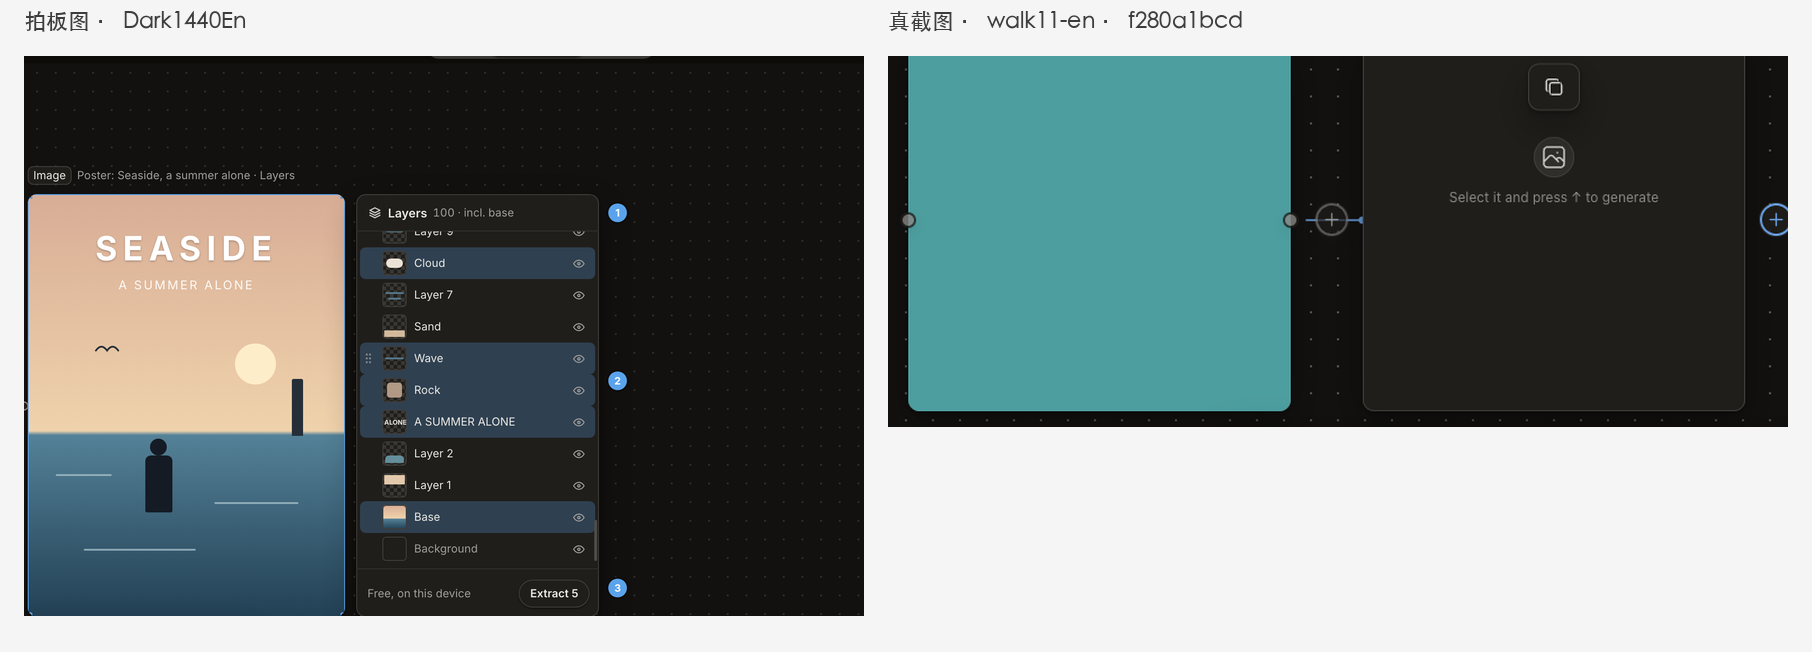
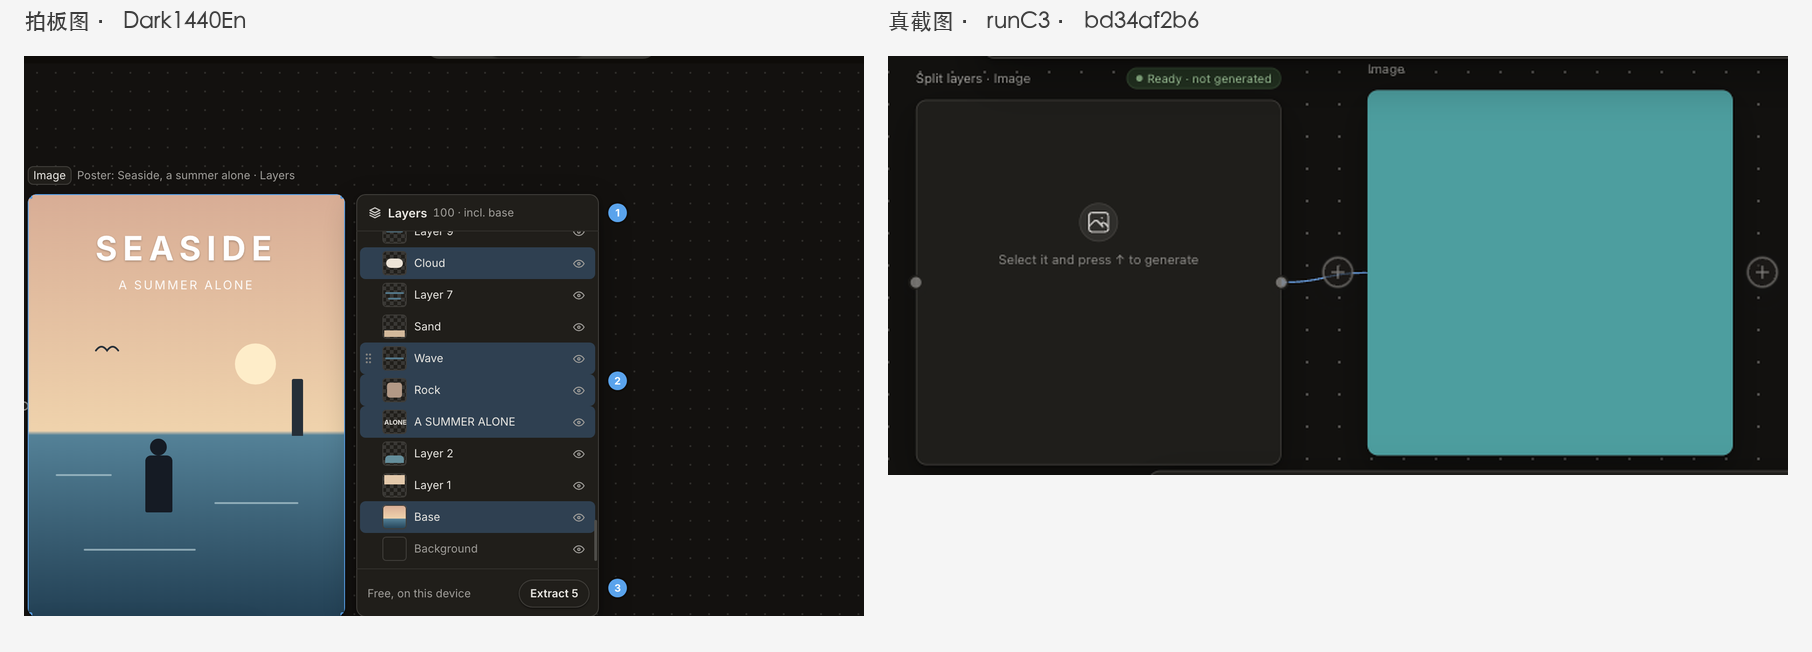
wip(layer-split): 英文派生节点并排图改用补拍，派生节点整张入画
walk11-en 那一轮画布停在 100%，派生节点的标题和状态在视口上沿外，并排图只拍到节点身体。
在 bd34af2b6 的构建上用 ui.mjs 补拍 runC3（英文暗色 1100×690，派生后不动画布，80%）：
「Split layers · Image」+「Ready · not generated」整张入画；这一行的提交号单独标。
缩放在各轮之间为什么不一样没查明，INDEX.md 末尾写成未验证。

Changed region(s): [[0.4636, 0.0, 0.989, 0.7362]]

diff --git a/docs/evidence/2026-11-26-layer-split/side-by-side/INDEX.md b/docs/evidence/2026-11-26-layer-split/side-by-side/INDEX.md
@@ -1,7 +1,7 @@
 # 图层分离 PR1 · 拍板图 | 真截图 并排索引
 
 - 板：docs/design/boards/2026-11-26-layer-split/LayerSplit.board.json（拍板稿 S-E 第 13 版渲染图，仓库外 /Users/aoqimin/Nomi-coord/tmp/s-de-canvas/v-1126/se-*.png）
-- 真截图构建：分支源码提交 `f280a1bcd`（walk11-zh / walk11-en = tests/ux/layer-split.walk.mjs；runC2 = 同一构建上 ui.mjs 补拍），假 APIMart 替身。
+- 真截图构建：分支源码提交 `f280a1bcd`（walk11-zh / walk11-en = tests/ux/layer-split.walk.mjs；runC2 = 同一构建上 ui.mjs 补拍；runC3 = 构建 bd34af2b6 上 ui.mjs 补拍英文派生节点，之间只有不改行为的提交），假 APIMart 替身。
 - 元素状态全部保持 in-progress（待另一条线逐态核过才标 implemented）。
 
 | 元素 id | 状态 | 并排图 | 真截图来源 | 断言 / 说明 | 提交 |
@@ -11,7 +11,7 @@
 | layers.entry | 缺模型（不灰 · 点名去接） | [entry.no-model.png](entry.no-model.png) | walk11-zh/LS09-no-model-guide.zh-CN.light.png | LS09 / LS10：第二行点名 APIMart，点了打开接入页（D-1126-se-missing-model-guide 取代板上「灰 + 原因」） | f280a1bcd |
 | layers.entry-whiteboard-hint | 悬停（原生 title） | [whiteboard-hint.zh-light.png](whiteboard-hint.zh-light.png) | walk11-zh/LS04-split-landed.zh-CN.light.png | 原生 title 截图拍不到，走查断言 title =「在画板中编辑图层」/ en「Edit the layers on the whiteboard」 | f280a1bcd |
 | layers.derived-node | zh 浅色 · 已备好 · 未生成 | [derived-node.zh-light.png](derived-node.zh-light.png) | walk11-zh/LS02-derived-composer.zh-CN.light.png | LS02：1 节点 1 边，提示词空，0 次请求（vendor-requests.json） | f280a1bcd |
-| layers.derived-node | en 暗色 | [derived-node.en-dark.png](derived-node.en-dark.png) | walk11-en/LS02-derived-composer.en.dark.png | walk11-en LS02 | f280a1bcd |
+| layers.derived-node | en 暗色 | [derived-node.en-dark.png](derived-node.en-dark.png) | runC3/C14b-derived-100.en.dark.png | runC3 补拍：派生后不动画布，标题「Split layers · Image」+「Ready · not generated」整张入画（walk11-en LS02 那一轮画布停在 100%，标题在视口上沿外） | bd34af2b6 |
 | layers.composer-cell | zh 浅色 · 默认 | [composer-cell.zh-light.png](composer-cell.zh-light.png) | walk11-zh/LS02-derived-composer.zh-CN.light.png | 「图层分离 · 30 层 · 自动」；让位顺序单测 composerBarYield.layerSplit.test.ts | f280a1bcd |
 | layers.composer-cell | en 暗色 · 1100×690 | [composer-cell.en-dark.png](composer-cell.en-dark.png) | walk11-en/LS02-derived-composer.en.dark.png | 「Split layers · 30 · Auto」 | f280a1bcd |
 | layers.params-panel | zh 浅色 · 打开 | [params-panel.zh-light.png](params-panel.zh-light.png) | walk11-zh/LS03-params-panel.zh-CN.light.png | LS03：8 / 16 / 30 / 自定义、清晰度、识别文字 | f280a1bcd |
@@ -43,6 +43,6 @@
 - 面板行每个能删的层都有垃圾桶（含底图），板上行只画了眼睛：协调 C-E4 裁定「每个能删的行都有垃圾桶」；背景行不可删、没有垃圾桶。
 - 「完成」那一格：真截图是画笔刚用完的状态（多出颜色 / 粗细），板上是选择工具；工具条按节点宽度折行，板上节点窄折成三行。工具条本 PR 没改。
 - 英文暗色面板行里「标题文字」「人物」是替身返回的层名（接口 layers[i].name 原样显示），不是界面文案；真 APIMart 返回什么名字就显示什么。
-- 英文 1100×690 这一轮画布停在 100% 缩放（前几轮构建是 80%，中文轨各构建一致），派生节点的标题和状态在视口上沿外，derived-node.en-dark 只拍到节点身体：缩放由画布首次适配决定，本 PR 没改；派生节点整张看 derived-node.zh-light，走查同时断言「1 个节点 + 1 条边 + 0 次请求」。
+- 英文 1100×690 的走查轮次之间画布缩放不一样：walk8 / walk11 停在 100%，walk9 / walk10 和补拍 runC3 是 80%（中文轨各轮一致）；100% 那几轮派生节点的标题和状态在视口上沿外。缩放为什么不一样没查明（未验证）；本 PR 没碰画布首次适配的代码。derived-node.en-dark 用 runC3 补拍，派生节点整张入画；walk11-en 照样断言「1 个节点 + 1 条边 + 0 次请求」。
 
 PR2 / 后续的元素（whiteboard-panel、panel-reorder、panel-multiselect、panel-virtual、base-row；failed、extract-button、extract-result、agent-pointer）本 PR 没做，不出并排图。
